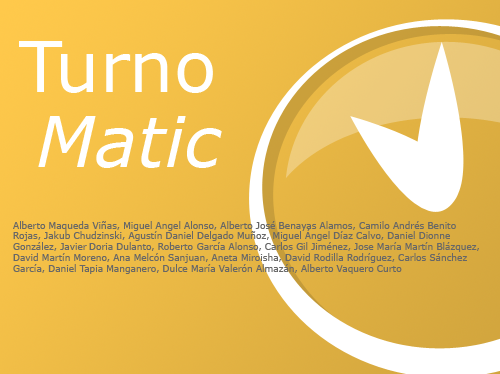
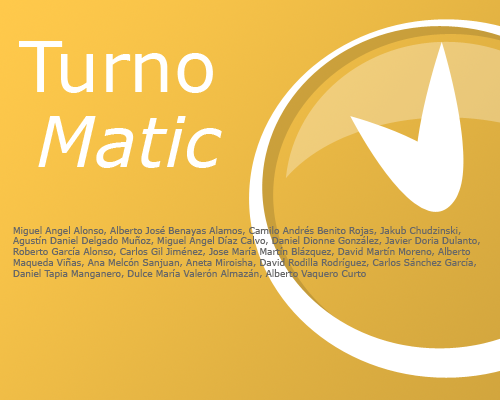
Añadido método conexionAbierta() en Database.java. Cambiado el interfaz de acceso para manejar correctamente la conexión con la base de datos. Añadido un mensaje de error de conexión en I01_Login. Actualizada la imagen de inicio. Añadida la base de datos como parámetro de I02_Menu_principal.

diff --git a/IS0708/src/interfaces/I02_Menu_principal.java b/IS0708/src/interfaces/I02_Menu_principal.java
@@ -3,7 +3,6 @@ package interfaces;
 import java.util.ArrayList;
 
 import org.eclipse.swt.*;
-import org.eclipse.swt.custom.ScrolledComposite;
 import org.eclipse.swt.events.*;
 import org.eclipse.swt.layout.GridData;
 import org.eclipse.swt.layout.GridLayout;
@@ -15,13 +14,12 @@ import java.util.ResourceBundle;
 import java.util.Locale;
 
 import aplicacion.Empleado;
-
+import aplicacion.Database;
 import impresion.Imprimir;
-import interfaces.I01_Login;
 import interfaces.I02_cuadr;
 import interfaces.I08_1_Anadir_empleado;
 import interfaces.I09_1_Creacion_contratos;
-import aplicacion.Util.*;
+
 
 /**
  * Interfaz de usuario I-02 :: Ventana principal - Jefe
@@ -37,18 +35,20 @@ public class I02_Menu_principal {
 	Image icoGr, icoPq, ico_imprimir, ico_mens_l, ico_mens, ico_cuadrante, ico_chico, ico_chica, ico_chicos;
 	Cuadrante cuadranteActual;
 	Empleado empleadoActual;
+	Database db;
 	
 	private ArrayList<Empleado> empleados;
 	
 	private ImageData Img;
 
-	public I02_Menu_principal(Shell shell, Display display, ResourceBundle bundle, Locale locale, ArrayList<Empleado> empleados, int rango, Empleado empleadoActual) {
+	public I02_Menu_principal(Shell shell, Display display, ResourceBundle bundle, Locale locale, ArrayList<Empleado> empleados, int rango, Empleado empleadoActual, Database db) {
 		this.shell = shell;
 		this.display = display;
 		this.empleados = empleados;
 		this.bundle = bundle;
 		this.locale = locale;
 		this.empleadoActual = empleadoActual;
+		this.db = db;
 		crearVentana(rango);
 		//ponImageDia();
 	}
